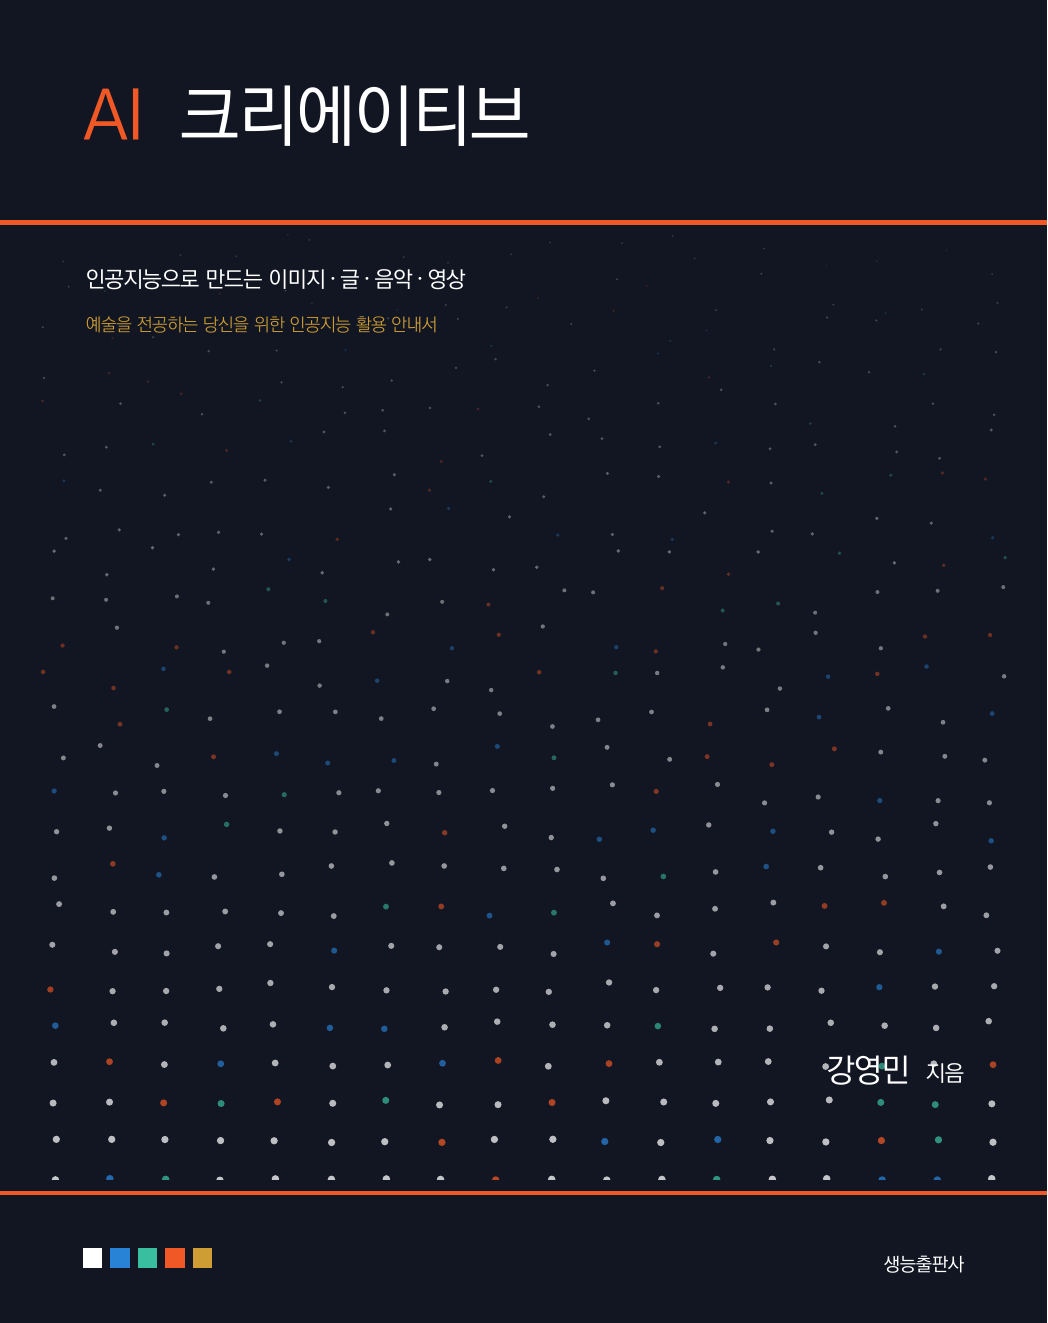
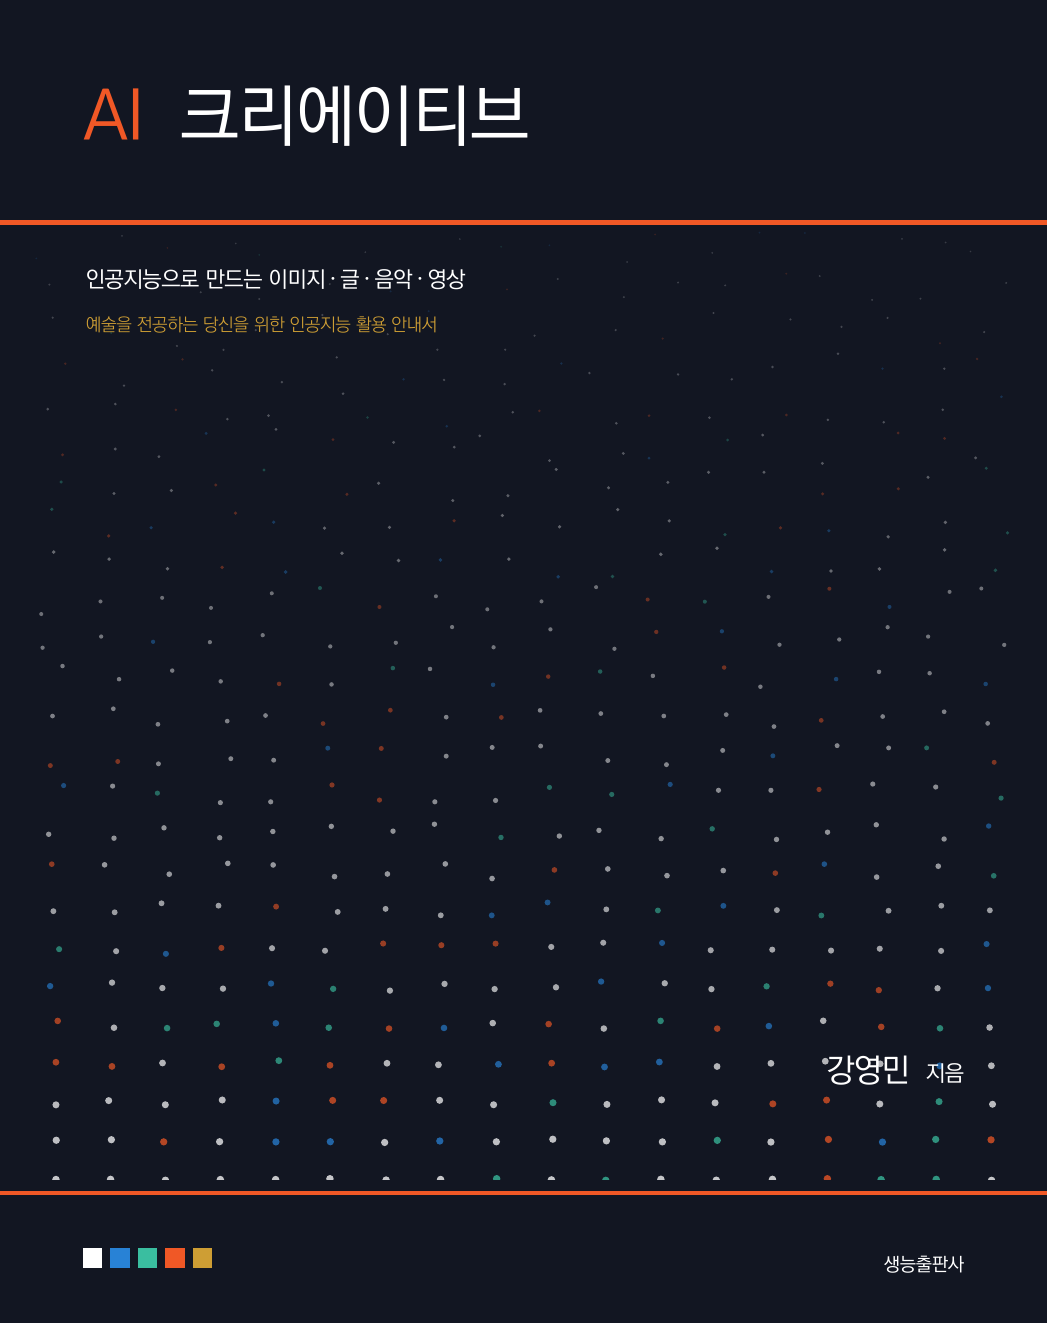
11장 결과 그림 두 장 반영
정지 프레임 한 장씩이므로 캡션의 '세 프레임'을 '한 프레임'으로
고쳤다. 이로써 \resultfig 자리 12곳이 모두 채워졌다.

diff --git a/docs/book/ch11.html b/docs/book/ch11.html
@@ -182,7 +182,7 @@ gentle steam rising from the coffee cup,
 soft rain streaking down the glass,
 everything else remains still,
 subtle and calm motion</code></pre><div class="listing-caption">프롬프트 11.1: 이미지에 움직임 지시하기</div></div>
-<figure class="fig"><div class="fig-pending">그림 준비 중<code>ch11-motion-frames.png</code></div><figcaption>생성된 클립에서 뽑은 세 프레임</figcaption></figure>
+<figure class="fig"><img class="shot" src="img/ch11/ch11_img01.jpg" alt="figure"><figcaption>움직임을 지시한 클립에서 뽑은 한 프레임</figcaption></figure>
 <p><code>everything else remains still</code>이 유용하다. 지시하지 않은 부분까지 모델이 움직이려 드는 것을 막는다.</p>
 <div class="box caution"><span class="chip">주의</span><p><strong>한 클립에 움직임을 두세 개까지만</strong> 넣는다. 6.6절에서 이미지 프롬프트의 통제 요소가 대여섯 개가 한계라고 했는데, 영상에서는 그보다 적다. 카메라 하나 + 피사체 하나 정도가 안정적이다.</p></div>
 <h3>잘 움직이는 이미지</h3>
@@ -234,7 +234,7 @@ wide shot, low angle, 35mm lens,
 soft blue morning light through a tall window,
 slow dolly forward, dust particles drifting gently,
 cinematic, muted color grading, subtle film grain</code></pre><div class="listing-caption">프롬프트 11.2: 다섯 층을 갖춘 영상 프롬프트</div></div>
-<figure class="fig"><div class="fig-pending">그림 준비 중<code>ch11-five-layers-frames.png</code></div><figcaption>다섯 층 프롬프트로 만든 클립의 프레임</figcaption></figure>
+<figure class="fig"><img class="shot" src="img/ch11/ch11_img02.jpg" alt="figure"><figcaption>다섯 층 프롬프트로 만든 클립의 한 프레임</figcaption></figure>
 <p>6.4절에서 익힌 카메라·조명 어휘가 그대로 쓰인다는 점에 주목하자. <strong>이미지에서 쌓은 어휘가 영상에서 재사용된다.</strong></p>
 <h3>여러 클립의 통일성</h3>
 <p>가장 큰 문제다. 클립마다 따로 만들면 화풍과 색감이 제각각이 된다.</p>
